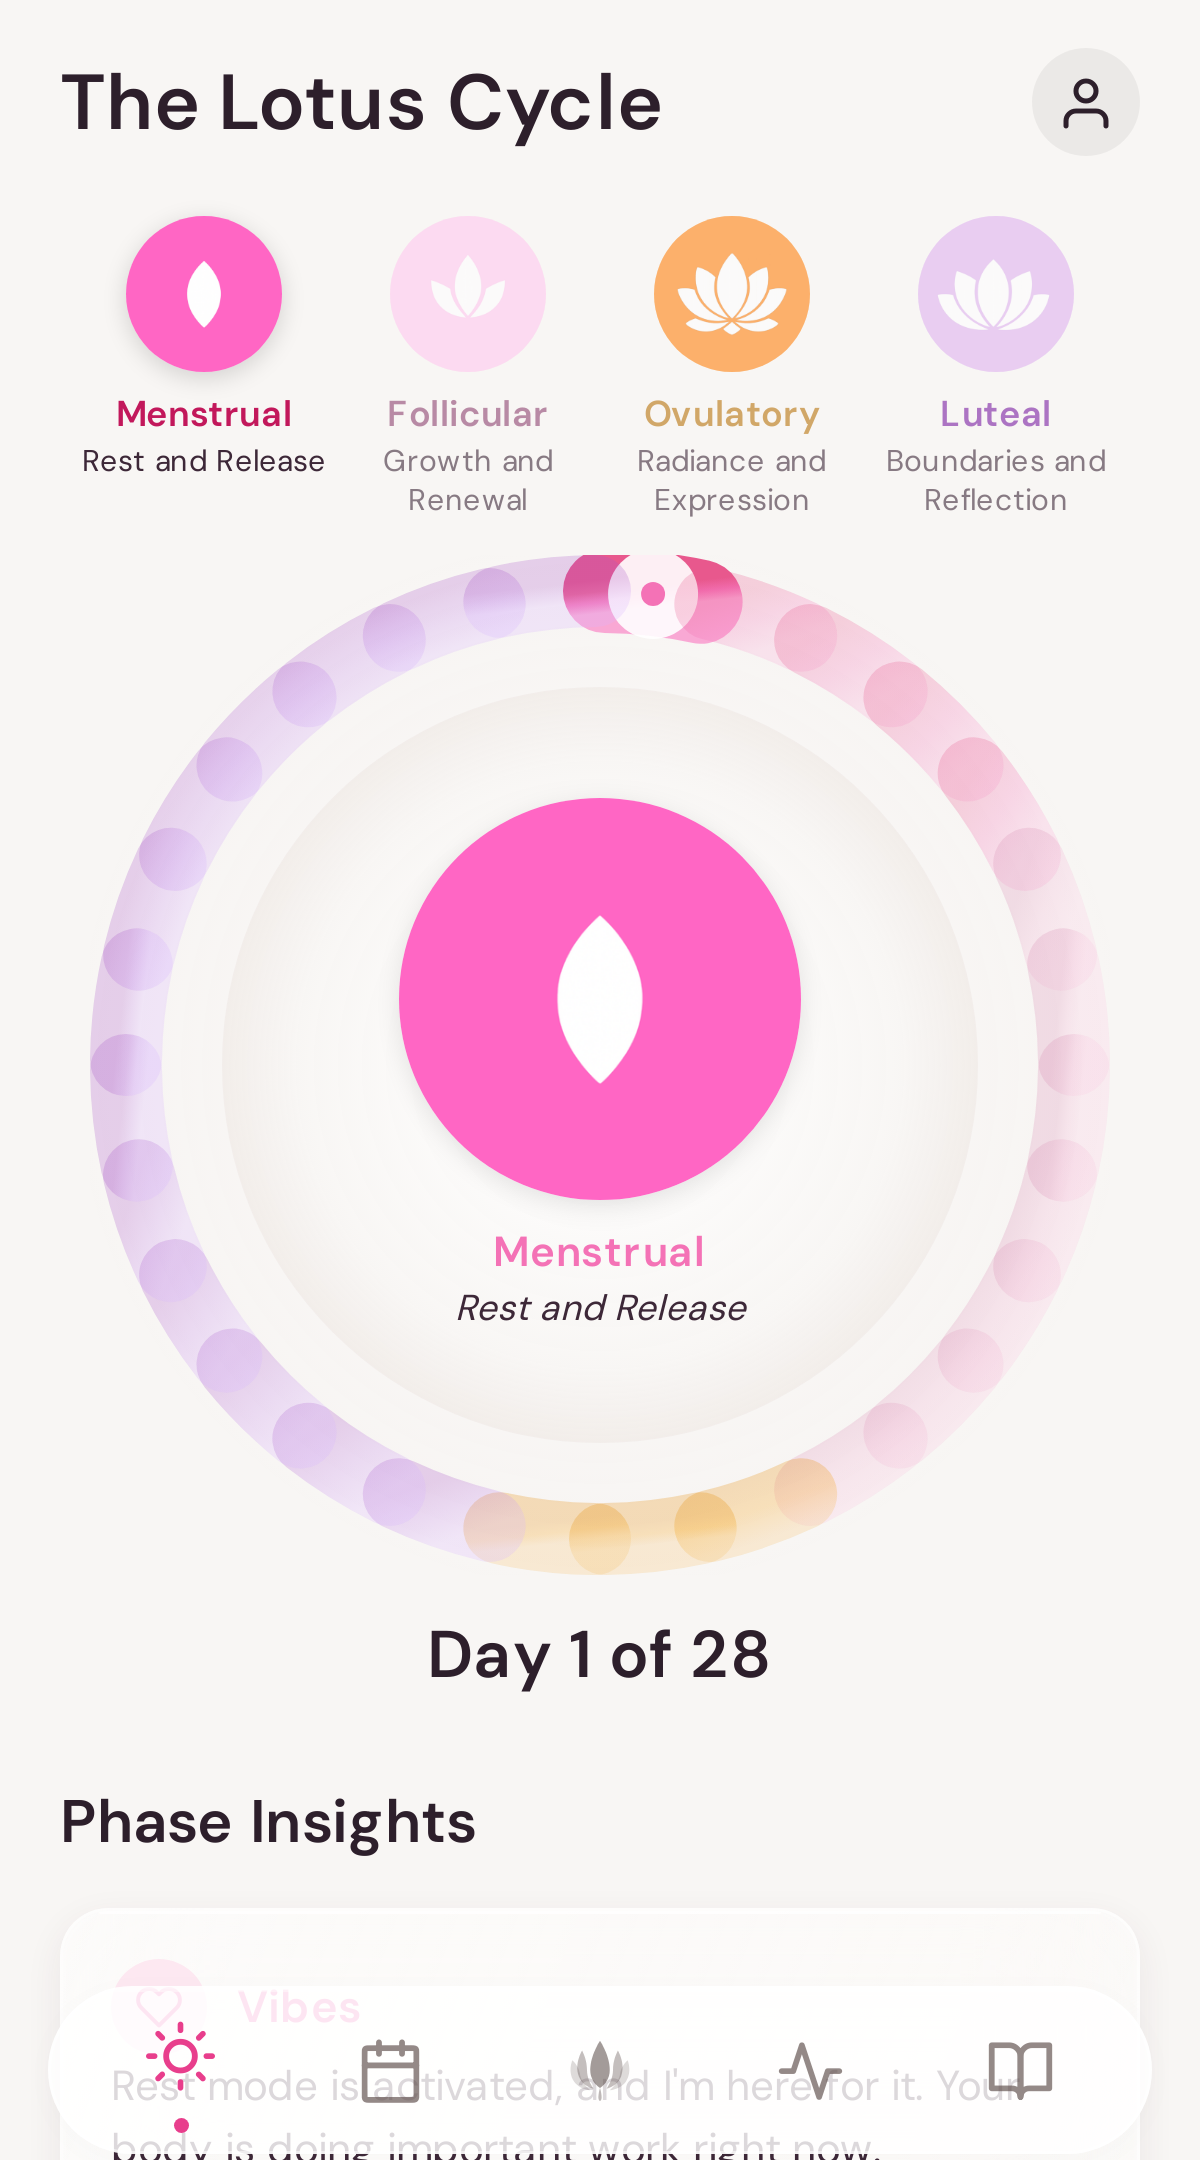
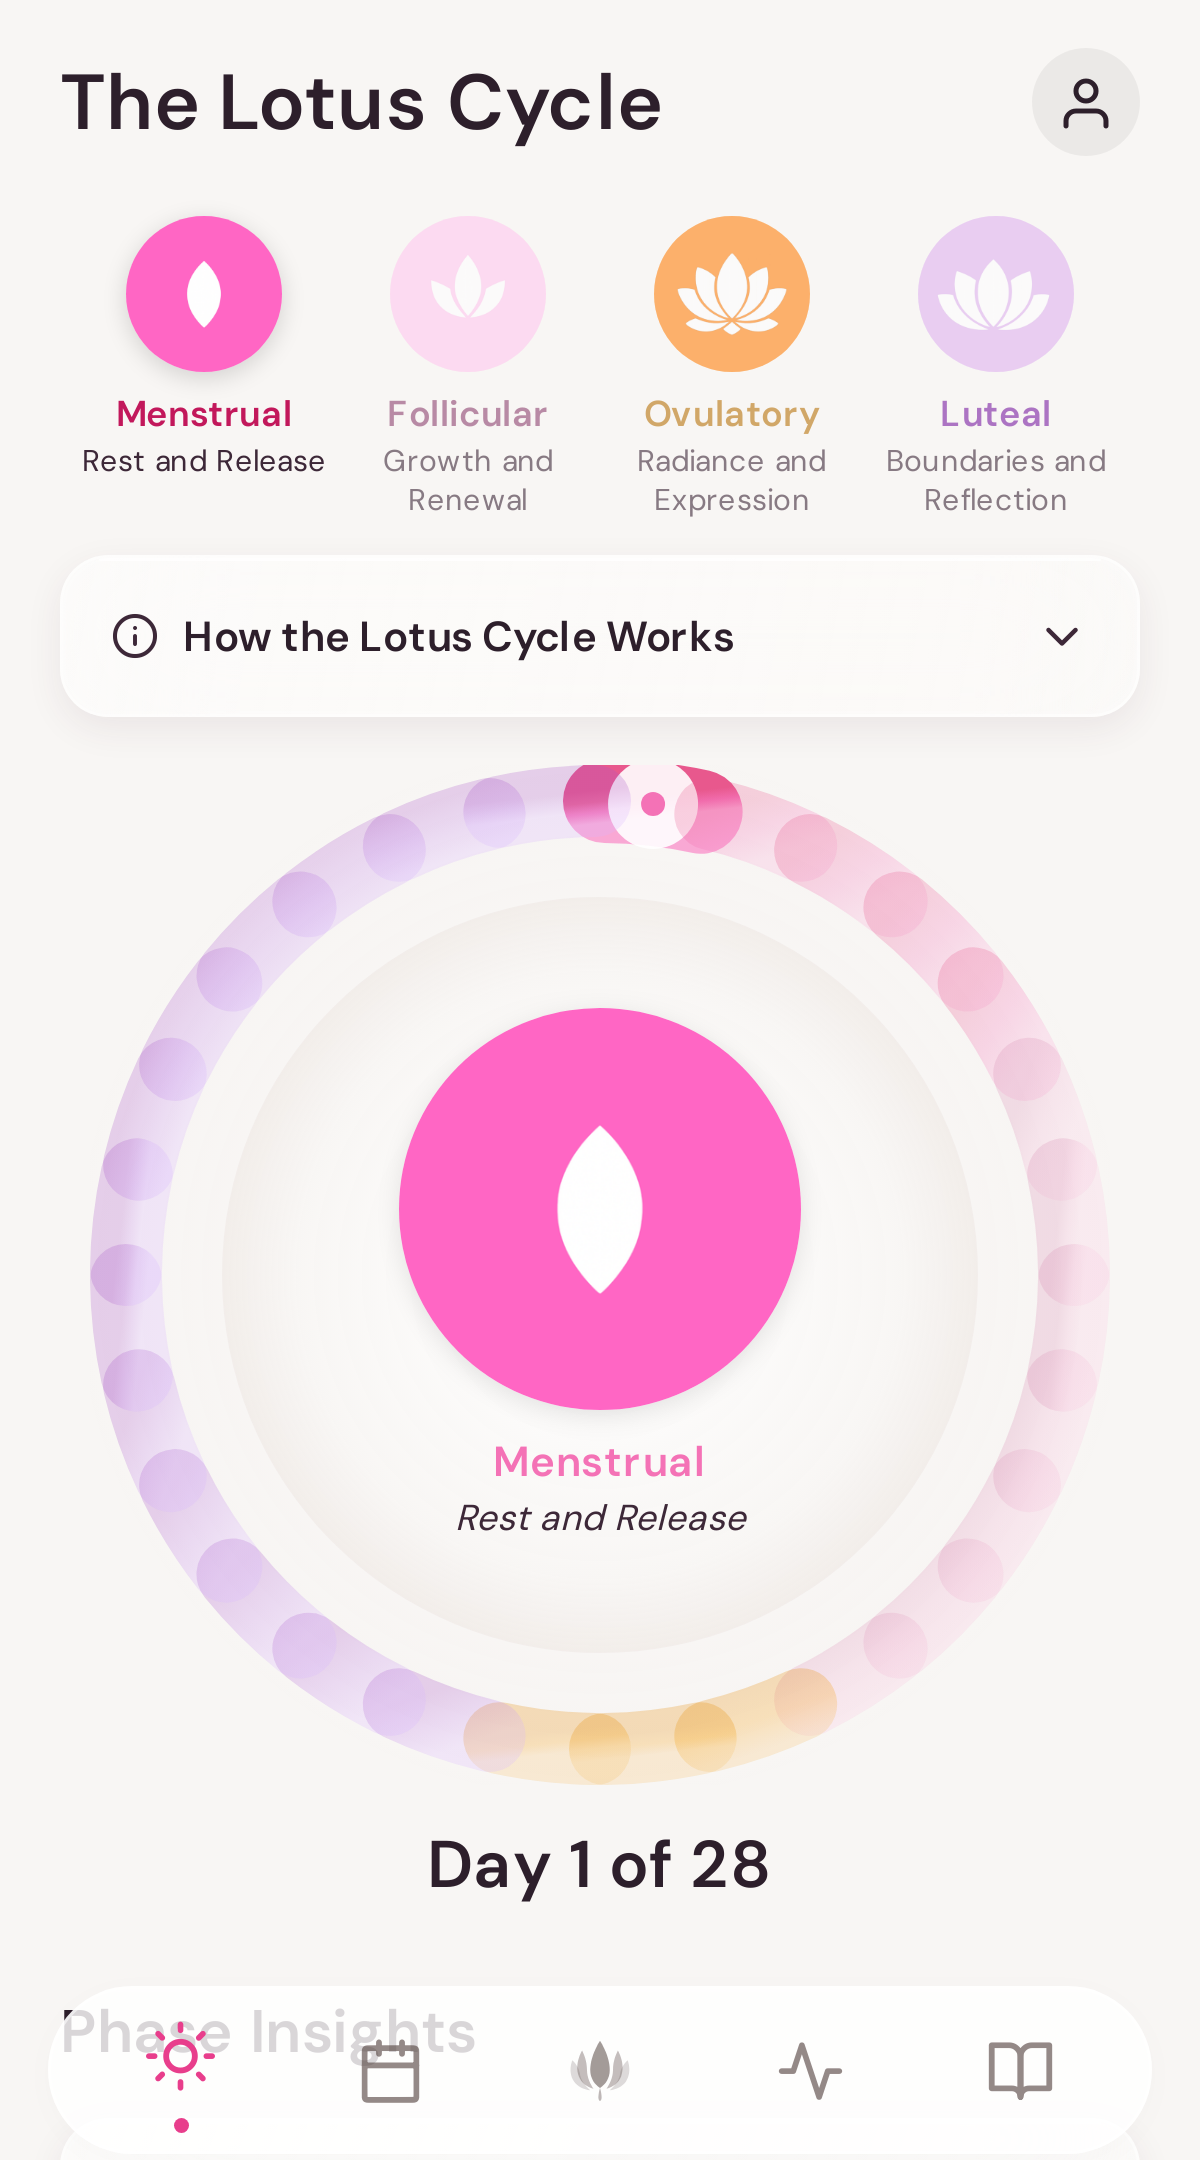
Add an explainer for the lotus cycle and its phases
Add a collapsible explainer component to LotusCycleScreen to describe how the lotus metaphor maps to menstrual phases.

Replit-Commit-Author: Agent
Replit-Commit-Session-Id: 283083b0-691a-4a06-b38b-9f8570f3359f
Replit-Commit-Checkpoint-Type: full_checkpoint
Replit-Commit-Event-Id: c6709aa0-7658-4760-9cfd-5958db76ad13
Replit-Commit-Screenshot-Url: https://storage.googleapis.com/screenshot-production-us-central1/dd925497-1656-4b1f-b3b6-37f0c42171ee/283083b0-691a-4a06-b38b-9f8570f3359f/5NWg4EY
Replit-Helium-Checkpoint-Created: true

diff --git a/client/screens/LotusCycleScreen.tsx b/client/screens/LotusCycleScreen.tsx
@@ -391,12 +391,97 @@ function InteractiveCycleWheel({
   );
 }
 
+const LOTUS_SYNOPSIS = [
+  {
+    stage: "The Bud",
+    phase: "Menstrual Phase",
+    days: "Days 1–5",
+    icon: "droplet" as const,
+    color: "#C2185B",
+    softBg: "#C2185B20",
+    body: "Your lotus is a tightly closed bud — your body is shedding its lining and turning inward. This is a time for deep rest, gentle warmth, and honouring the release. Energy is at its lowest; let the bud sleep.",
+  },
+  {
+    stage: "The Rising Lotus",
+    phase: "Follicular Phase",
+    days: "Days 6–13",
+    icon: "trending-up" as const,
+    color: "#8E4470",
+    softBg: "#8E447020",
+    body: "Petals begin to unfurl as oestrogen rises and a new follicle matures. Creativity and energy build steadily. This is your spring — plan, explore, and let new ideas take root.",
+  },
+  {
+    stage: "Full Bloom",
+    phase: "Ovulatory Phase",
+    days: "Days 14–16",
+    icon: "sun" as const,
+    color: "#B8730A",
+    softBg: "#B8730A20",
+    body: "The lotus opens completely — you're at peak radiance. An egg is released, fertility peaks, and so does confidence and social energy. Shine, connect, and express yourself fully.",
+  },
+  {
+    stage: "The Closing Lotus",
+    phase: "Luteal Phase",
+    days: "Days 17–28",
+    icon: "moon" as const,
+    color: "#7B1FA2",
+    softBg: "#7B1FA220",
+    body: "Petals draw gently inward as progesterone rises. Your body prepares to either nurture or release. It's a time for boundaries, reflection, and nesting. Honour the slowdown — the bud will return.",
+  },
+];
+
+function LotusSynopsis({ isExpanded, onToggle }: { isExpanded: boolean; onToggle: () => void }) {
+  return (
+    <GlassSurface style={styles.synopsisCard} borderRadius={BorderRadius.lg} padding={16}>
+      <Pressable onPress={onToggle} style={styles.synopsisHeader}>
+        <View style={styles.synopsisHeaderLeft}>
+          <Feather name="info" size={16} color={neutral.textSecondary} />
+          <Text style={styles.synopsisHeaderText}>How the Lotus Cycle Works</Text>
+        </View>
+        <Feather
+          name={isExpanded ? "chevron-up" : "chevron-down"}
+          size={18}
+          color={neutral.textSecondary}
+        />
+      </Pressable>
+
+      {isExpanded ? (
+        <View style={styles.synopsisContent}>
+          <Text style={styles.synopsisIntro}>
+            The Lotus Cycle mirrors your menstrual journey through four stages of a lotus flower — from closed bud to full bloom and back again. Each stage reflects what's happening in your body and guides you toward what it needs most.
+          </Text>
+
+          {LOTUS_SYNOPSIS.map((item, index) => (
+            <View key={index} style={styles.synopsisItem}>
+              <View style={styles.synopsisItemHeader}>
+                <View style={[styles.synopsisIconCircle, { backgroundColor: item.softBg }]}>
+                  <Feather name={item.icon} size={14} color={item.color} />
+                </View>
+                <View style={styles.synopsisItemTitles}>
+                  <Text style={[styles.synopsisStage, { color: item.color }]}>{item.stage}</Text>
+                  <Text style={styles.synopsisPhaseDays}>{item.phase} · {item.days}</Text>
+                </View>
+              </View>
+              <Text style={styles.synopsisBody}>{item.body}</Text>
+            </View>
+          ))}
+
+          <Text style={styles.synopsisFooter}>
+            Swipe around the wheel above to explore each day of your cycle. The lotus at the centre transforms as you move through your phases.
+          </Text>
+        </View>
+      ) : null}
+    </GlassSurface>
+  );
+}
+
 export function LotusCycleScreen() {
   const insets = useSafeAreaInsets();
   const tabBarHeight = useBottomTabBarHeight();
   const navigation = useNavigation();
 
   const [profile, setProfile] = useState<UserProfile | null>(null);
+  const [synopsisExpanded, setSynopsisExpanded] = useState(false);
 
   const { data, loading } = useLotusCycle(profile?.id || "");
 
@@ -471,6 +556,11 @@ export function LotusCycleScreen() {
             />
           ))}
         </View>
+
+        <LotusSynopsis
+          isExpanded={synopsisExpanded}
+          onToggle={() => setSynopsisExpanded((v) => !v)}
+        />
 
         <InteractiveCycleWheel
           cycleLength={cycleLength}
@@ -720,6 +810,78 @@ const styles = StyleSheet.create({
     fontFamily: Fonts.body,
     fontSize: 13,
     fontWeight: "500",
+  },
+  synopsisCard: {
+    marginBottom: 16,
+  },
+  synopsisHeader: {
+    flexDirection: "row",
+    alignItems: "center",
+    justifyContent: "space-between",
+  },
+  synopsisHeaderLeft: {
+    flexDirection: "row",
+    alignItems: "center",
+    gap: 8,
+  },
+  synopsisHeaderText: {
+    fontFamily: Fonts.heading,
+    fontSize: 14,
+    color: neutral.textPrimary,
+    letterSpacing: 0.2,
+  },
+  synopsisContent: {
+    marginTop: 14,
+    gap: 16,
+  },
+  synopsisIntro: {
+    fontFamily: Fonts.body,
+    fontSize: 13,
+    color: neutral.textSecondary,
+    lineHeight: 20,
+  },
+  synopsisItem: {
+    gap: 6,
+  },
+  synopsisItemHeader: {
+    flexDirection: "row",
+    alignItems: "center",
+    gap: 10,
+  },
+  synopsisIconCircle: {
+    width: 28,
+    height: 28,
+    borderRadius: 14,
+    alignItems: "center",
+    justifyContent: "center",
+  },
+  synopsisItemTitles: {
+    flex: 1,
+  },
+  synopsisStage: {
+    fontFamily: Fonts.heading,
+    fontSize: 14,
+    letterSpacing: 0.2,
+  },
+  synopsisPhaseDays: {
+    fontFamily: Fonts.body,
+    fontSize: 11,
+    color: neutral.textSecondary,
+  },
+  synopsisBody: {
+    fontFamily: Fonts.body,
+    fontSize: 13,
+    color: neutral.textSecondary,
+    lineHeight: 20,
+    paddingLeft: 38,
+  },
+  synopsisFooter: {
+    fontFamily: Fonts.body,
+    fontSize: 12,
+    color: neutral.textSecondary,
+    fontStyle: "italic" as const,
+    lineHeight: 18,
+    marginTop: 4,
   },
 });
 
